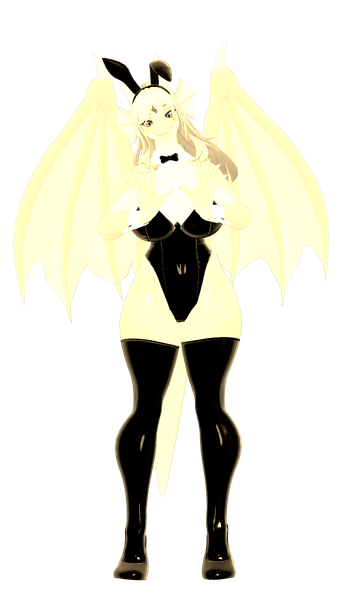
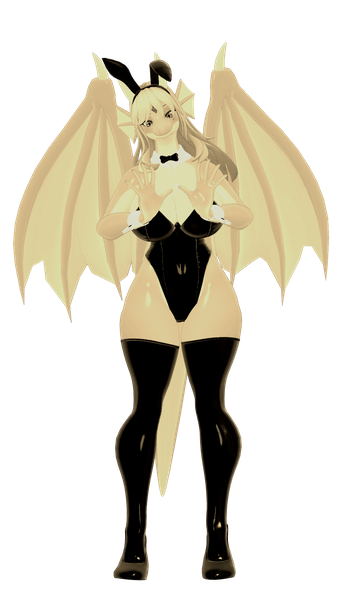
fix: スマホ2列レスポンシブ対応・ウェイン明るさ修正
- キャストグリッドをスマホで2列表示
- スマホ用カードサイズ・フォント・ホバー調整
- 銀天のウェイン木札用画像を明るさ50%に修正

diff --git a/style.css b/style.css
@@ -1298,7 +1298,38 @@ main {
     }
 
     .cast-grid {
-        grid-template-columns: 1fr;
+        grid-template-columns: repeat(2, 1fr);
+        gap: var(--spacing-sm);
+    }
+
+    /* スマホ2列に合わせてカードをコンパクト化 */
+    .cast-card {
+        padding: var(--spacing-xs);
+        border-width: 2px;
+        /* タップ時のホバーエフェクトを軽減 */
+        transition: none;
+    }
+
+    .cast-card:hover {
+        transform: none;
+        box-shadow: 0 4px 12px rgba(0, 0, 0, 0.3);
+    }
+
+    .cast-name {
+        font-size: 0.75rem;
+        padding: 0.2rem var(--spacing-xs);
+        margin-bottom: 0.2rem;
+    }
+
+    .cast-role {
+        font-size: 0.65rem;
+        padding: 0.15rem 0.4rem;
+        top: 4px;
+        right: 4px;
+    }
+
+    .coming-soon-label {
+        font-size: 0.65rem;
     }
 
     .content-card {
@@ -1328,5 +1359,13 @@ main {
 
     .content-card {
         padding: var(--spacing-md);
+    }
+
+    .cast-grid {
+        gap: 0.4rem;
+    }
+
+    .cast-name {
+        font-size: 0.65rem;
     }
 }
